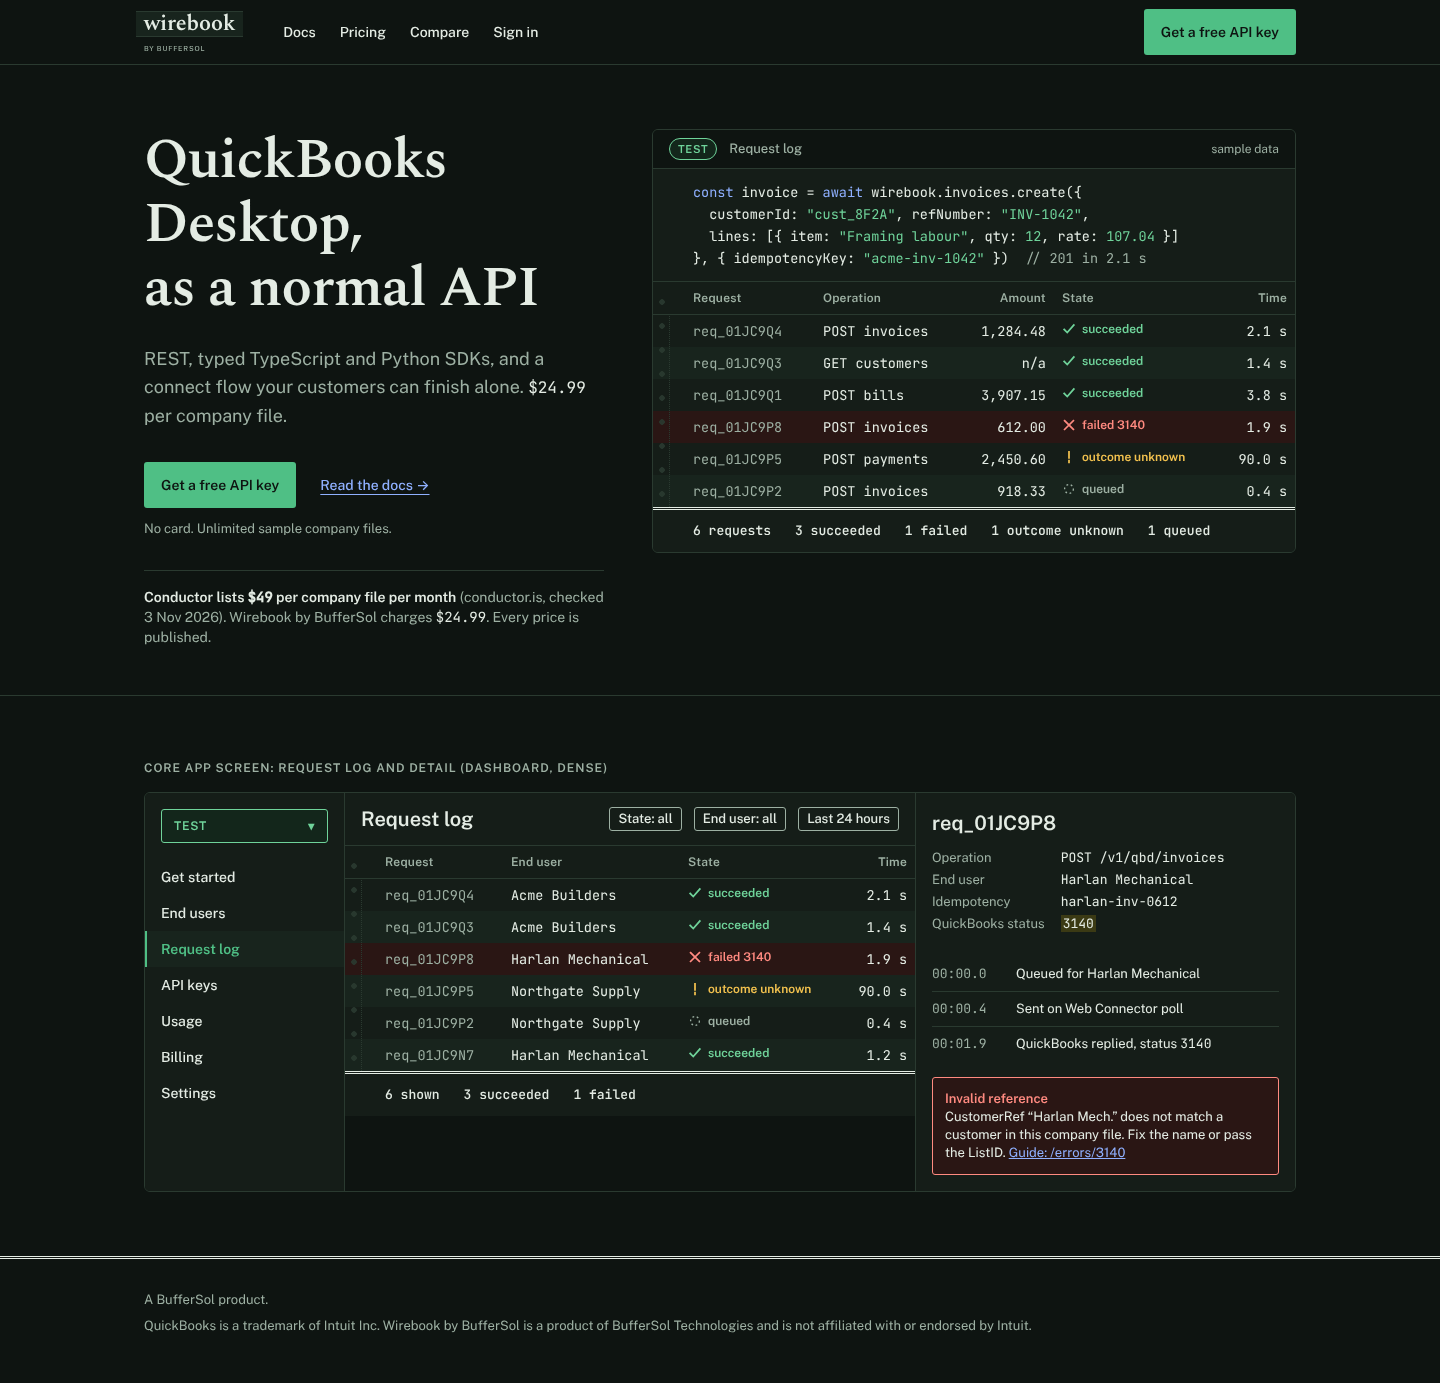
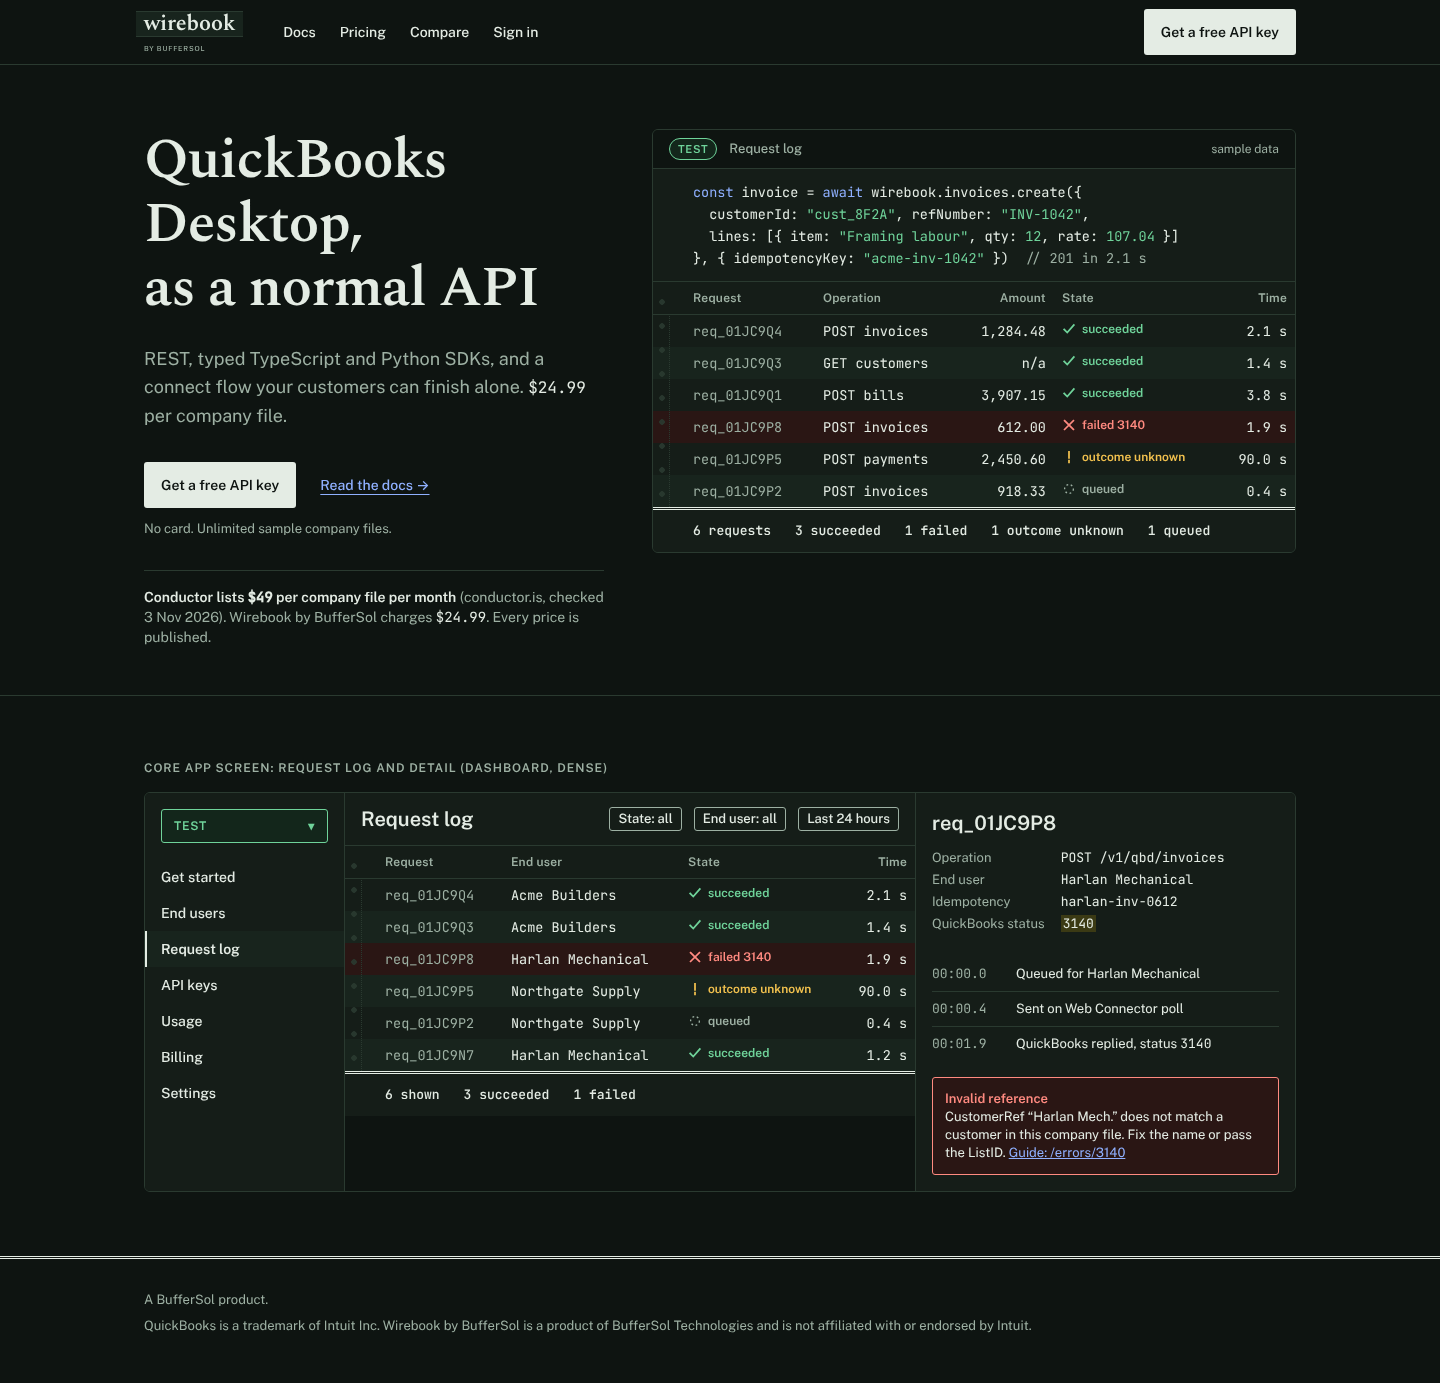
Design: primary is near-black ledger ink (distinct from sister products) (#2)
Claude-Session: https://claude.ai/code/session_01Mn59CjdM4nipBsBdpMLR62

Changed region(s): [[0.7812, 0.0, 0.9062, 0.0622], [0.0938, 0.3109, 0.2188, 0.3731], [0.125, 0.684, 0.1562, 0.7151]]

diff --git a/docs/design/mock.html b/docs/design/mock.html
@@ -10,14 +10,14 @@
 <style>
 :root{
   --bg:#F7F8F4;--surface:#FFFFFF;--band:#E8F1E4;--ink:#14201A;--ink-muted:#4A5A50;--rule:#C9D3C6;--border-strong:#4A5A50;
-  --primary:#0F5B3A;--primary-hover:#0B4A2F;--on-primary:#FFFFFF;--carbon:#24489A;
+  --primary:#14201A;--primary-hover:#2E4036;--on-primary:#F7F8F4;--carbon:#24489A;
   --red:#B3261E;--red-bg:#FBE9E7;--warn:#7A5200;--warn-bg:#FFF3D6;--ok:#1F7A45;--ok-bg:#E3F3E8;--hl:#FFF1A8;
   --ease:cubic-bezier(0.22,1,0.36,1);
   --f-display:"Spectral",Georgia,serif;--f-ui:"Public Sans","Segoe UI",system-ui,sans-serif;--f-mono:"JetBrains Mono",ui-monospace,Consolas,monospace;
 }
 :root[data-theme="dark"]{
   --bg:#0E1411;--surface:#151D18;--band:#18241D;--ink:#E4ECE4;--ink-muted:#9DB0A3;--rule:#2A3A30;--border-strong:#9DB0A3;
-  --primary:#4FBF85;--primary-hover:#6FD39A;--on-primary:#0E1411;--carbon:#8FB0FF;
+  --primary:#E4ECE4;--primary-hover:#FFFFFF;--on-primary:#0E1411;--carbon:#8FB0FF;
   --red:#FF8A80;--red-bg:#2A1614;--warn:#F2C14E;--warn-bg:#2A2210;--ok:#6FD39A;--ok-bg:#13261B;--hl:#3B3A14;
 }
 *{box-sizing:border-box;margin:0}

diff --git a/docs/DESIGN.md b/docs/DESIGN.md
@@ -37,7 +37,7 @@ Wordmark: "wirebook" in Spectral 600 lowercase on a thin green-bar band, "by Buf
 
 ## 5. Palette (CSS variables, role names; components never use raw hex)
 
-Raw ramp lives in `@theme`, roles switch on `data-theme` and `prefers-color-scheme`. One accent only (ledger green, saturation under 80%). Semantic red, amber, green for state only. Never colour alone: status always has a glyph and a word.
+Raw ramp lives in `@theme`, roles switch on `data-theme` and `prefers-color-scheme`. **Primary is near-black ledger ink, not green** (orchestrator review 5 Nov: sister products DockCrate #1F5C4A, Stepclimb #0B5D6B teal and Hotrail #14284B navy already own dark green, teal and navy, and all BufferSol products are seen side by side). Green survives only as the pale green-bar band tint and as the semantic success colour (ticks), so the page reads as paper and pencil, with carbon blue for links and red pencil for annotation. Semantic red, amber, green for state only. Never colour alone: status always has a glyph and a word.
 
 | Role | Light | Dark ("night terminal") | Use |
 |---|---|---|---|
@@ -48,19 +48,19 @@ Raw ramp lives in `@theme`, roles switch on `data-theme` and `prefers-color-sche
 | `ink-muted` | #4A5A50 | #9DB0A3 | Secondary text (4.5:1 on bg, verified below) |
 | `rule` | #C9D3C6 | #2A3A30 | Decorative hairlines, perforation, row dividers |
 | `border-strong` | #4A5A50 | #9DB0A3 | Input borders, control edges (3:1) |
-| `primary` | #0F5B3A | #4FBF85 | The one accent: buttons, ticks, active nav |
-| `primary-hover` | #0B4A2F | #6FD39A | |
-| `on-primary` | #FFFFFF | #0E1411 | Text on primary |
+| `primary` | #14201A | #E4ECE4 | Ledger ink: buttons, active nav, headings of record. Not a hue accent |
+| `primary-hover` | #2E4036 | #FFFFFF | |
+| `on-primary` | #F7F8F4 | #0E1411 | Text on primary |
 | `carbon` | #24489A | #8FB0FF | Links and focus ring |
 | `redpencil` / `redpencil-bg` | #B3261E / #FBE9E7 | #FF8A80 / #2A1614 | Errors, failure ticks, annotation circles |
 | `warn` / `warn-bg` | #7A5200 / #FFF3D6 | #F2C14E / #2A2210 | Asleep, outcome unknown |
 | `success` / `success-bg` | #1F7A45 / #E3F3E8 | #6FD39A / #13261B | Succeeded |
 | `highlight` | #FFF1A8 | #3B3A14 | Marker highlight for the changed value in diffs |
 
-Contrast checks (computed with the WCAG formula, 5 Nov 2026): light: ink on paper 15.7:1; ink-muted on paper 6.9:1 and on band 6.3:1; primary on paper 7.6:1; white on primary 8.1:1; carbon on paper 8.0:1; redpencil on redpencil-bg 5.6:1; warn on warn-bg 6.3:1; success on success-bg 4.6:1. Dark: ink on bg 15.5:1; ink-muted 8.1:1; primary 8.1:1 (and bg on primary 8.1:1); carbon 8.7:1; redpencil 8.2:1. `rule` is decorative only (1.4:1 on paper); anything that must be perceivable as a control edge (inputs, focus targets, table outer border of interactive tables) uses `border-strong` = ink-muted (#4A5A50 light, #9DB0A3 dark), which clears 3:1. Re-verified by axe in M5.
+Contrast checks (computed with the WCAG formula, 5 Nov 2026): light: ink on paper 15.7:1; ink-muted on paper 6.9:1 and on band 6.3:1; primary (ink) on paper 15.7:1; paper on primary 15.7:1, on primary-hover 10.3:1; carbon on paper 8.0:1; redpencil on redpencil-bg 5.6:1; warn on warn-bg 6.3:1; success on success-bg 4.6:1. Dark: ink on bg 15.5:1; ink-muted 8.1:1; primary (E4ECE4) on bg 15.5:1 and bg on primary 15.5:1; carbon 8.7:1; redpencil 8.2:1. `rule` is decorative only (1.4:1 on paper); anything that must be perceivable as a control edge (inputs, focus targets, table outer border of interactive tables) uses `border-strong` = ink-muted (#4A5A50 light, #9DB0A3 dark), which clears 3:1. Re-verified by axe in M5.
 
-Deliberate overrides vs the playbook, recorded per its override rule: dark-mode backgrounds are green-tinted (#0E1411 etc.) instead of the neutral-black whitelist, because the concept needs one family; no gradient fills or gradient text anywhere (the perforation dots are a CSS dot pattern, not a fill); no tints on the accent.
-Not used on purpose: QuickBooks green (#2CA01C) and Intuit logos, purple-blue gradients, glow blobs.
+Deliberate overrides vs the playbook, recorded per its override rule: dark-mode backgrounds carry a faint green tint (#0E1411 etc., chroma under 4%) instead of the neutral-black whitelist, to keep the green-bar family; no gradient fills or gradient text anywhere (the perforation dots are a CSS dot pattern, not a fill); the pale band green is a surface tint, never a button or link colour.
+Not used on purpose: dark forest green, teal or navy as primary (sister products own them), QuickBooks green (#2CA01C) and Intuit logos, purple-blue gradients, glow blobs.
 
 ## 6. Type
 
@@ -105,7 +105,7 @@ Headings use `text-wrap: balance`, body `pretty`. Sentence case everywhere. No h
 - **Icons:** Phosphor Icons (regular weight, 20px, one stroke weight sitewide), imported as SVG components, `currentColor`. The playbook's whitelist (Phosphor/Solar/Iconamoon) replaces the workbook's Tabler to keep one rule for all 7 products; logged in DECISIONS.md. Custom glyphs: tick, footing, perforation. No emoji, no icon-in-circle on every card, no AI sparkle.
 - **Imagery:** no stock photos, no illustrations of people. Real product UI built as React components with believable (not round) data, plus **annotated real QuickBooks and Web Connector screenshots with numbered red-pencil circles** in the connect flow and guides (taken from our own Windows test machine; until then, drawn faithfully as HTML mockups and labelled as such). Data viz: small multiples, green sparkline bars, red-pencil ticks for failures. Charts follow the dataviz skill's accessibility rules.
 - **Motion:** the playbook's easing `cubic-bezier(0.22,1,0.36,1)`; 120/160/200 ms for UI, tick draw 200 ms, scroll reveals once, 600 ms, 24px rise (transform and opacity only). `prefers-reduced-motion`: opacity only, ticks appear drawn. One orchestrated entrance (log rows tick in, 60ms stagger) and the **mandatory tagline reveal** (words 30% to 100% on scroll). No parallax, no cursor effects.
-- **Buttons:** primary (green fill), secondary (1px ink outline), tertiary (text with carbon underline), destructive (redpencil). States: default, hover, pressed (translate 1px), focus (2px carbon ring + 2px offset), disabled, loading (skeleton bar, no spinner).
+- **Buttons:** primary (ink fill, paper text), secondary (1px ink outline), tertiary (text with carbon underline), destructive (redpencil). States: default, hover, pressed (translate 1px), focus (2px carbon ring + 2px offset), disabled, loading (skeleton bar, no spinner).
 
 ## 9. Voice
 

diff --git a/docs/DECISIONS.md b/docs/DECISIONS.md
@@ -12,3 +12,5 @@ Standing decisions are in docs/factory/BATCH1_PLAN.md (Mongo instead of Postgres
 - **No real QuickBooks in build:** a spec faithful QBWC simulator + golden qbXML fixtures; real acceptance run is an owner item. Docs must not claim real world parity before it.
 - **Banned deps CI** kept for unapproved vendors; approved exceptions: Vercel, Mongo Atlas, Stripe, Resend (mailer), Cloudflare R2/Workers.
 - **Roadmap items** (webhooks, C#, MCP) are never shown as shipped on the site; "Coming in v1" line only.
+- **Primary colour (orchestrator review, 5 Nov):** near-black ledger ink (#14201A / dark #E4ECE4), not green, to stay distinct from DockCrate, Stepclimb and Hotrail. Green kept only as band tint and success state. Design approved otherwise.
+- **Before kit-v1:** build qbXML codec, QBWC SOAP handler and simulator as pure TS modules with tests, no UI. DB_DRIVER=memory until MONGODB_URI arrives.
